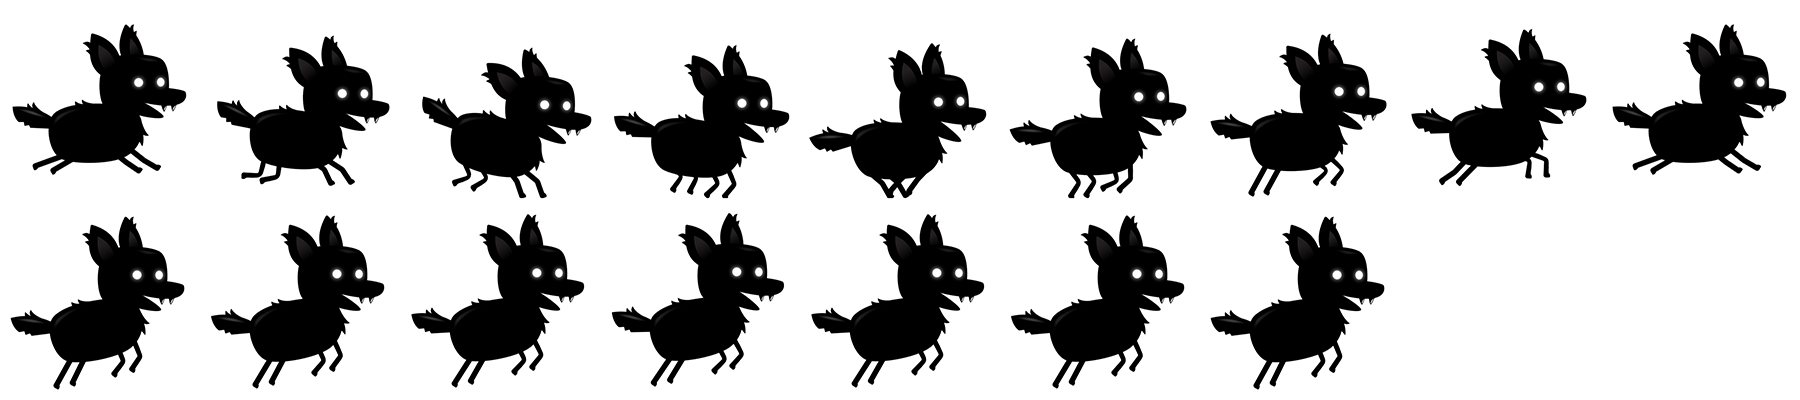
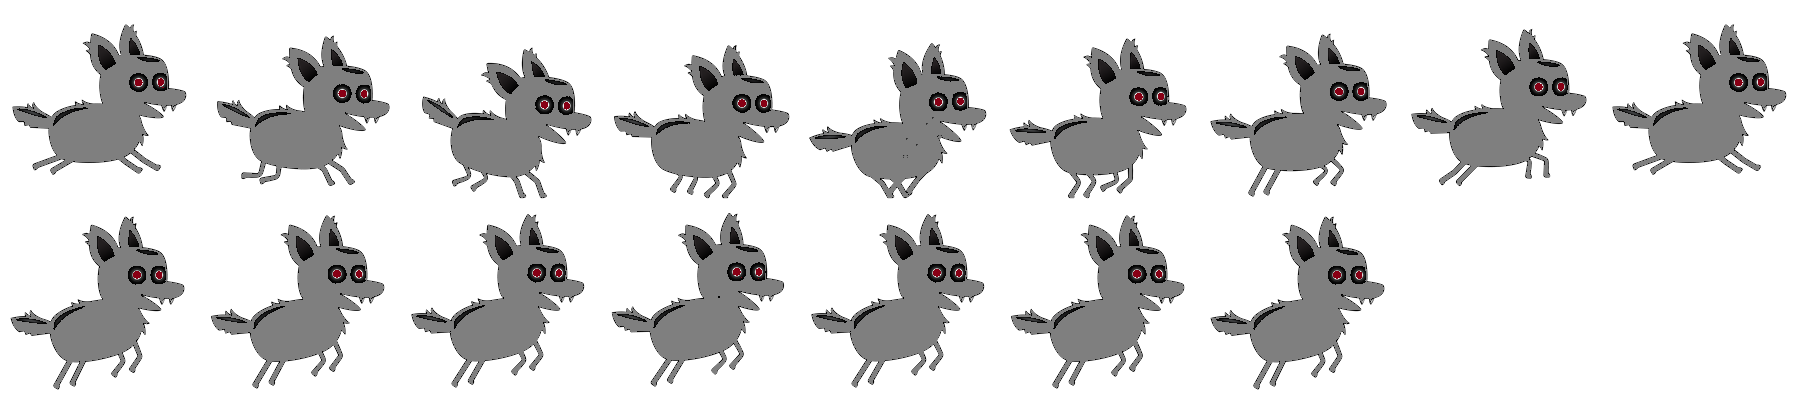
starter styling for player and background

diff --git a/index.js b/index.js
@@ -1,27 +1,26 @@
+
+//Some code and code ideas from Franks laboratory Youtube channel https://www.youtube.com/c/Frankslaboratory
+//Also ideas from https://www.youtube.com/c/ChrisCourses
+
+
 window.addEventListener('load', function(){
     const canvas = document.getElementById('canvas1');
     const ctx = canvas.getContext('2d');       //ctx means context
-    canvas.width = 800;
-    canvas.height = 720;
+    canvas.width = 950;
+    canvas.height = 740;
 
     class InputHandler {
         constructor() {
             this.keys = [];
             window.addEventListener('keydown', e =>{   //used arrow function 
-                if((e.key === 's'  
-                || e.key === 'w' 
-                || e.key === 'a' 
-                || e.key === 'd') 
-                && this.keys.indexOf(e.key) === -1) { //if key is pushed it is consolelogged and added to array
-                    this.keys.push(e.key);
+                if((e.key === 's'  || e.key === 'w' || e.key === 'a' || e.key === 'd') 
+                && this.keys.indexOf(e.key) === -1) { //if key is pushed it is added to array
+                    this.keys.push(e.key); //push() adds elements to array and returns the new length of the array .keys
                 }
-            });
+            }); //indexOf() returns the position of the first specified character in the array 
 
             window.addEventListener('keyup', e =>{    
-                if(e.key === 's'  
-                || e.key === 'w' 
-                || e.key === 'a' 
-                || e.key === 'd') {
+                if(e.key === 's'  || e.key === 'w' || e.key === 'a' || e.key === 'd') {
                     this.keys.splice(this.keys.indexOf(e.key), 1); //if key is released it is taken away from the array using splice
                 }
             });
@@ -43,11 +42,7 @@ window.addEventListener('load', function(){
             this.vy = 0; //velocity y
             this.gravity = 0.41;
         }
-         draw(context) {
-            context.fillStyle = 'white';
-            context.fillRect(this.x, this.y, this.width, this.height);
-            context.drawImage(this.image, this.frameX * this.width, this.frameY * this.height, this.width, this.height, this.x, this.y, this.width, this.height);
-        }
+
         update(input) {
             this.x += this.speed;
             if(input.keys.indexOf('d') > -1) {
@@ -76,23 +71,28 @@ window.addEventListener('load', function(){
         ground() {
             return this.y >= this.gameHeight - this.height;
         }
+        draw(context) {
+            context.fillStyle = 'white';
+            context.fillRect(this.x, this.y, this.width, this.height);
+            context.drawImage(this.image, this.frameX * this.width, this.frameY * this.height, this.width, this.height, this.x, this.y, this.width, this.height);
+        }
     }
 
     class Background {
-        constructor(gameWidth, gameHeight) {
+        constructor() {
             //class properties
-            this.gameWidth = gameWidth;
-            this.gameHeight = gameHeight;
-            this.image = document.getElementById('backgroundImage');
-            this.x = 0;
-            this.y = 0; 
+            this.gameWidth 
+            this.gameHeight
             this.width = 2400; //image width
-            this.height = 720; //image height
-            this.speed = 3;
+            this.height = 820; //image height
+            this.image = document.getElementById('backgroundImage'); 
+            this.x = 0;
+            this.y = 0;
+            this.speed = 2;
         }
         draw(context) {
             context.drawImage(this.image, this.x, this.y, this.width, this.height); //draw same image twice
-            context.drawImage(this.image, this.x + this.width - this.speed, this.y, this.width, this.height);
+            context.drawImage(this.image, this.x + this.width - 1, this.y, this.width, this.height);
         }
         update() {
             this.x -= this.speed;

diff --git a/index.html b/index.html
@@ -9,12 +9,10 @@
 </head>
 <body>
     <canvas id="canvas1"></canvas>
-    <img id="playerImage" src="./assets/player.png" alt="">
-    <img id="backgroundImage" src="./assets/background_single.png" alt="">
-    <img id="enemyImage1" src="" alt="">
-    <div>
-        <img src="" alt="">
-    </div>
+    <img id="playerImage" src="./assets/player.png" alt=""> <!--asset from https://bevouliin.com/ -->
+    <img id="backgroundImage" src="./assets/sewerbg.jpg" alt="">  <!--asset from https://bevouliin.com/ -->
+    <img id="enemyImage1" src="./assets/skeleton-animation_00.png" alt="">  <!--asset from https://bevouliin.com/ -->
+    <img id="lightningbolt-bg" src="./assets/cheesebg.png" alt=""> <!--image from https://wallpaperset.com/lightning-bolt-backgrounds -->
     <script src="./index.js"></script>
 </body>
 </html>

diff --git a/style.css b/style.css
@@ -7,13 +7,18 @@ body {
     position: absolute;
     top: 50%;
     left: 50%;
-    transform: translate(-50%,-50%);
-    border: 5px solid white;
+    transform: translate(-54%,-50%);
+    border: 5px solid black;
+    z-index: 2;
 }
+
 #playerImage, #backgroundImage, #enemyImage1 {
     display: none;
 }
-div {
-    z-index: 1;
-    margin: 0;
+
+
+
+#lightningbolt-bg {
+    margin-top: -5;
 }
+

diff --git a/Readme.md b/Readme.md
@@ -1,6 +1,13 @@
 <!-- Inpiration for the game: -->
 
 To create a game were you have to run, jump and defeat enemies kinda like mario. Reach the end of level and you win the game.
-(Use wasd to move)
+
+<!-- Controls -->
+
+Use a to move left, d to move right, and w to jump
 
 <!-- trying to create death pits -->
+
+<!-- Credits -->
+
+Assets from https://bevouliin.com/
